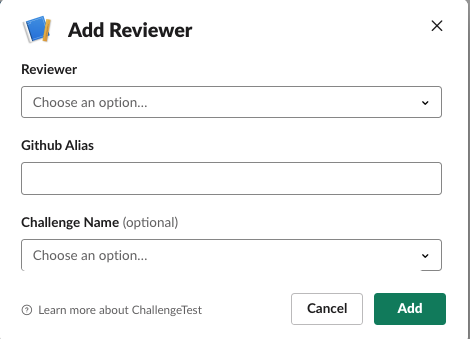
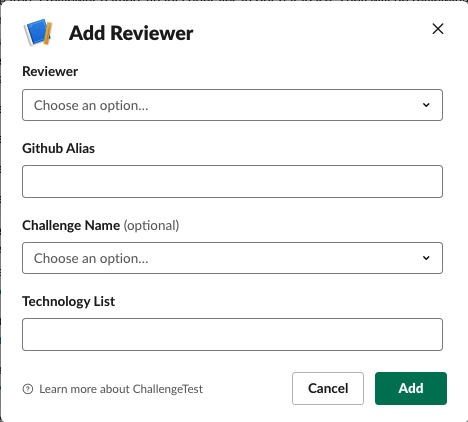
Add Technology List to the reviewer dialog

diff --git a/slackops/commands.go b/slackops/commands.go
@@ -278,20 +278,14 @@ func newChallengeDialog(triggerID string, state dialogState) *slack.Dialog {
 
 func newAddReviewerDialog(triggerID string, state dialogState, options []models.Challenge) *slack.Dialog {
 	reviewerEl := slack.NewUsersSelect("reviewer_id", "Reviewer")
-	githubNameElement := slack.NewTextInput("github_alias", "Github Alias", "")
-	selectOptions := make([]slack.DialogSelectOption, len(options))
-	for i, v := range options {
-		selectOptions[i] = slack.DialogSelectOption{
-			Label: v.Name,
-			Value: v.Name,
-		}
-	}
-
-	challengeNameEl := slack.NewStaticSelectDialogInput("challenge_name", "Challenge Name", selectOptions)
+	githubNameEl := slack.NewTextInput("github_alias", "Github Alias", "")
+	challengeNameEl := newExternalOptionsDialogInput("challenge_name", "Challenge Name")
+	technologyListEl := slack.NewTextInput("technology_list", "Technology List", "")
 	elements := []slack.DialogElement{
 		reviewerEl,
-		githubNameElement,
+		githubNameEl,
 		challengeNameEl,
+		technologyListEl,
 	}
 	return &slack.Dialog{
 		TriggerID:      triggerID,

diff --git a/slackops/options.go b/slackops/options.go
@@ -26,12 +26,16 @@ func HandleOptions(env config.Environment, readCloser io.ReadCloser) ([]byte, er
 		return nil, err
 	}
 
+	// log.Println("[INFO] ICB is - ", icb)
 	switch icb.CallbackID {
 	case "send_challenge":
 		respJSON, err := handleSendChallengeOptions(env, icb)
 		return respJSON, err
 	case "new_challenge":
 		respJSON, err := handleNewChallengeOptions(env, icb)
+		return respJSON, err
+	case "new_reviewer":
+		respJSON, err := handleNewReviewerOptions(env, icb)
 		return respJSON, err
 	default:
 		err = errors.New("[ERROR] Unknown dialog response")
@@ -144,4 +148,17 @@ func getAccountsList(env config.Environment) ([]byte, error) {
 		return nil, err
 	}
 	return js, nil
+}
+
+func handleNewReviewerOptions(env config.Environment, icb slack.InteractionCallback) ([]byte, error) {
+	switch icb.Name {
+	case "challenge_name":
+		js, err := getChallengeList(env)
+		if err != nil {
+			return nil, err
+		}
+		return js, nil
+	default:
+		return nil, nil
+	}
 }

diff --git a/models/reviewer.go b/models/reviewer.go
@@ -10,20 +10,22 @@ import (
 )
 
 type Reviewer struct {
-	ID            string
-	Name          string
-	GithubAlias   string
-	SlackID       string
-	ChallengeName string
+	ID             string
+	Name           string
+	GithubAlias    string
+	SlackID        string
+	TechnologyList string
+	ChallengeName  string
 }
 
 func NewReviewer(name string, input map[string]string) Reviewer {
 	return Reviewer{
-		ID:            util.RandomString(16),
-		Name:          name,
-		GithubAlias:   input["github_alias"],
-		SlackID:       input["reviewer_id"],
-		ChallengeName: input["challenge_name"],
+		ID:             util.RandomString(16),
+		Name:           name,
+		GithubAlias:    input["github_alias"],
+		SlackID:        input["reviewer_id"],
+		TechnologyList: input["technology_list"],
+		ChallengeName:  input["challenge_name"],
 	}
 }
 

diff --git a/README.md b/README.md
@@ -76,6 +76,7 @@ You can register reviewers to review coding challenges. In order to do that:
   * *Reviewer* From the drop-down select the name of the reviewer you like to register
   * *Github Alias* Type in the github alias for the reviewer
   * *Challenge Name* Select from the drop-down the challenge name the reviewer will be able to review.
+  * *Technology List* Add a comma delimited list of languages/technologies which the reviewer can evaluate. E.g. ruby,elixir 
 
 ### Send a coding challenge
 In order to send a coding challenge, you can type in the below: (We recommend you to create a specific Slack channel for all the coding challenges you will be sending. If there are multiple challenges for different positions, it is better to create different channels for each in Slack)
